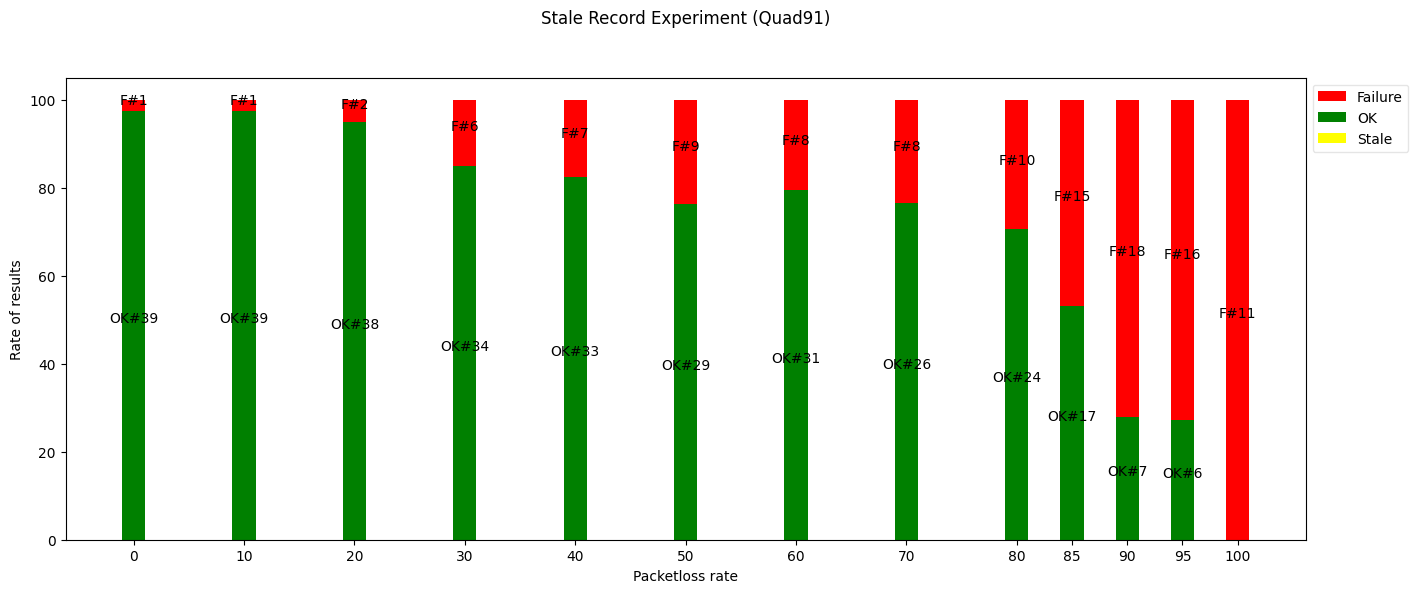
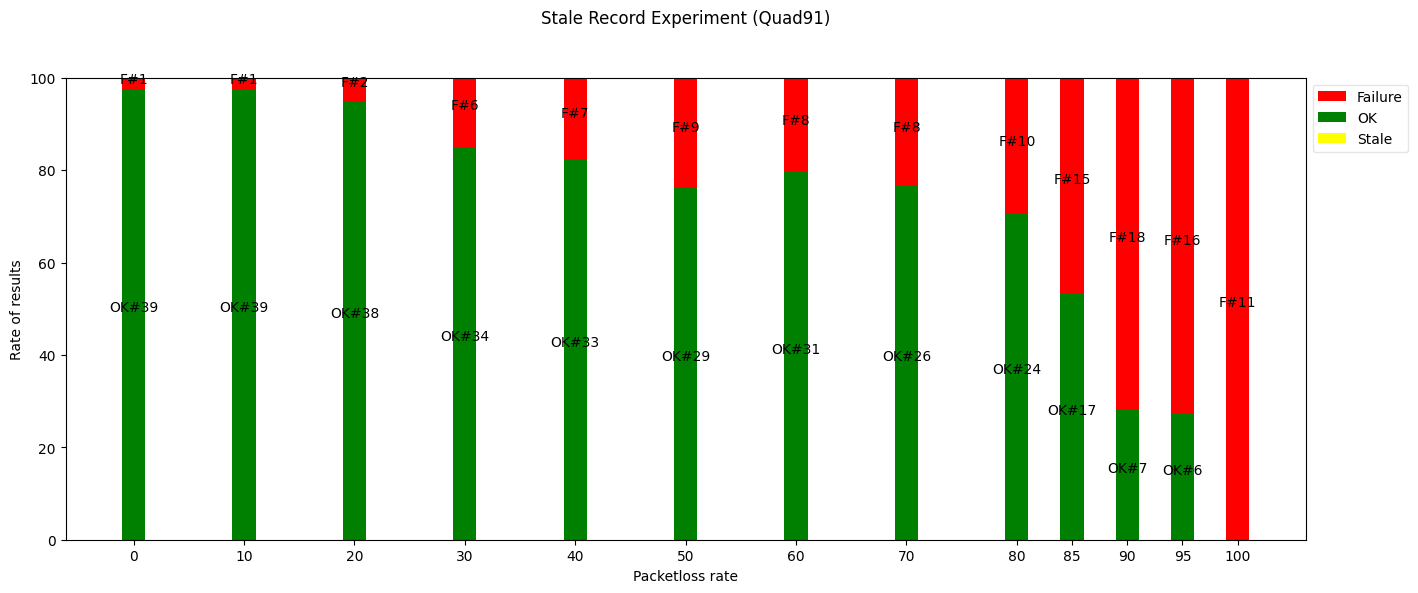
Updated Y axis limit of stale record plotting

diff --git a/experiment-scripts/stale-record-tests/plotting-stale-1/createStalePlotsCombined.py b/experiment-scripts/stale-record-tests/plotting-stale-1/createStalePlotsCombined.py
@@ -348,7 +348,7 @@ def create_combined_plots(file_name_prefix, operator_name, directory_name):
     plt.ylabel("Rate of results")
     # ax.set_ylabel('Results')
     plt.title(plot_title, x=0.5, y=1.1)
-    plt.ylim(bottom=0)
+    plt.ylim(bottom=0, top=100)
 
     ax.set_xticks(arr + width/2)
     ax.set_xticklabels((0, 10, 20, 30, 40, 50, 60, 70, 80, 85, 90, 95, 100))
@@ -950,9 +950,9 @@ def read_json_file(filename, pl_rate, resolver_filter):
 # "AdGuard1", "AdGuard2", "CleanBrowsing1", "CleanBrowsing2", "Google1", "Google2", "Neustar1", "Neustar2", "Yandex1", "Yandex2", "Quad91", "Quad92", "OpenDNS2"
 
 # "AdGuard1", "AdGuard2", "CleanBrowsing1", "CleanBrowsing2", "Cloudflare1", "Cloudflare2", "Dyn1", "Dyn2", "Google1", "Google2", "Neustar1", "Neustar2", "OpenDNS1", "OpenDNS2", "Quad91", "Quad92", "Yandex1", "Yandex2"
-filtered_resolvers = ["AdGuard1", "AdGuard2", "CleanBrowsing1", "CleanBrowsing2", "Google1", "Google2", "Neustar1", "Neustar2", "Yandex1", "Yandex2", "Quad91", "Quad92", "OpenDNS2"]
+filtered_resolvers = ["Cloudflare1", "Cloudflare2", "Dyn1", "Dyn2", "OpenDNS1",]
 
-file_name = "Stale Supported Resolver Only"
+file_name = "No stale record supported resolvers only"
 
 for current_pl_rate in packetloss_rates:
     print(f"Current packetloss rate: {current_pl_rate}")
